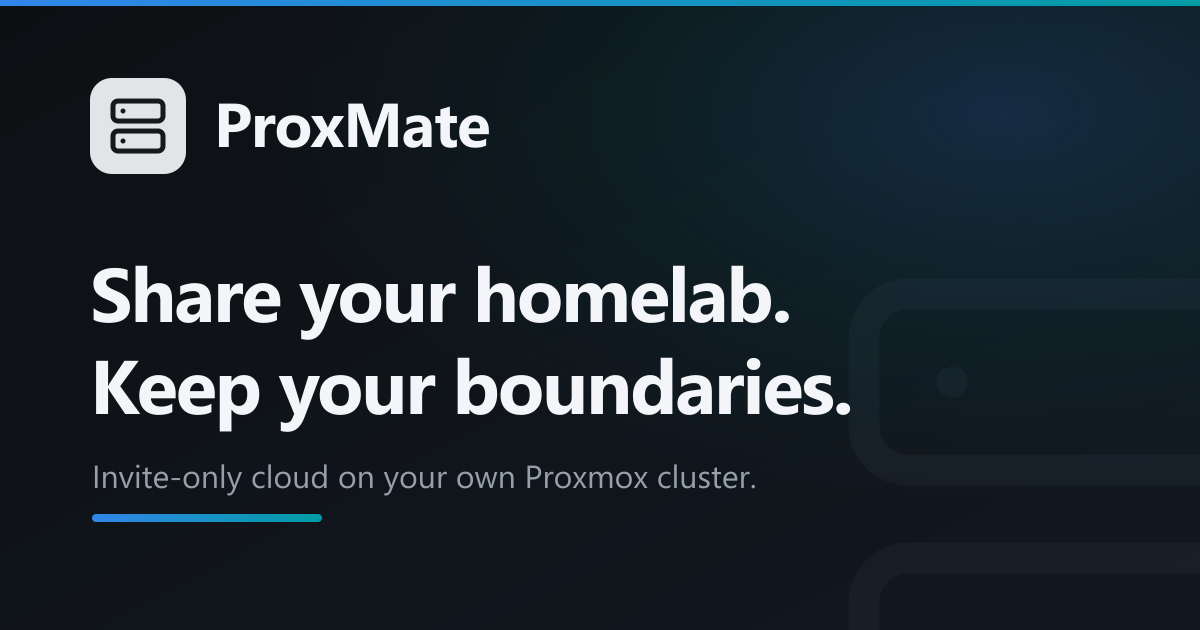
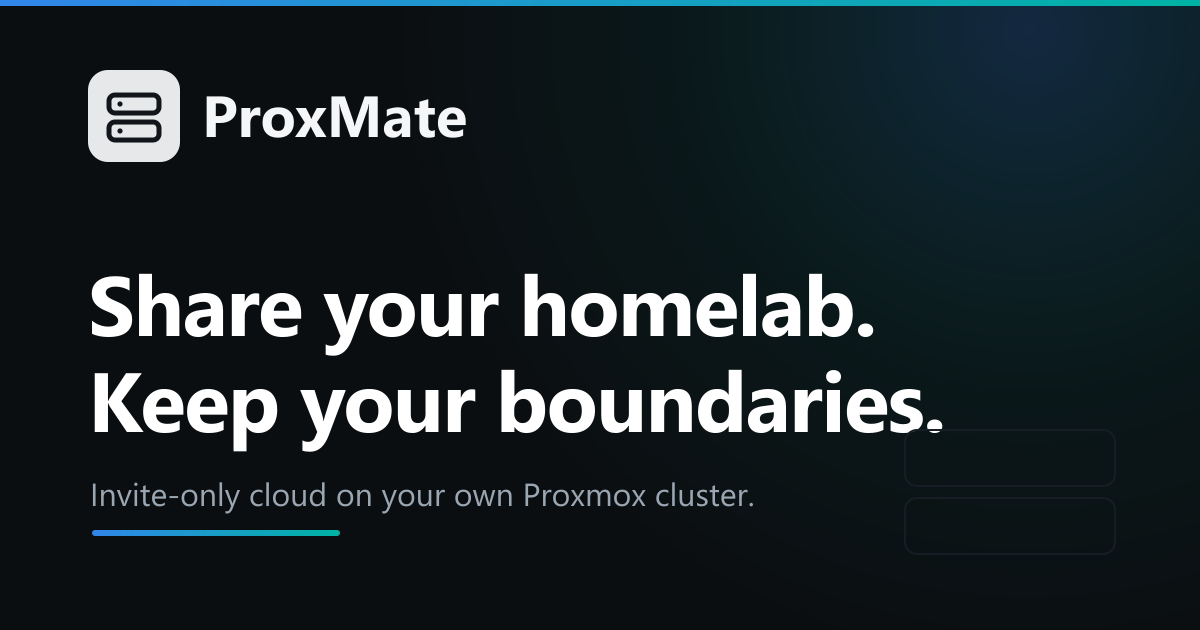
fix(seo): request-aware OG origin + refreshed share thumbnail
Shared links unfurled with a title/description but no image. Root cause:
metadataBase was baked from a build-time origin, and the Docker images
default NEXT_PUBLIC_SITE_URL to http://localhost:3000 — so an instance
built without that var emits og:image=http://localhost:3000/opengraph-image.png,
which the unfurl bot can't fetch.

- Derive metadataBase from the actual request (x-forwarded-host / host +
  x-forwarded-proto) via generateMetadata(), so link previews resolve on any
  self-hosted instance behind a tunnel/proxy with zero config. An explicit
  NEXT_PUBLIC_SITE_URL still wins; a localhost value is treated as unset so the
  dev default can't poison prod unfurls.
- Refresh opengraph-image.png / twitter-image.png with the "Refined Dark"
  card (logo, headline, accent underline).

Verified with a production build + next start: proxied Host ->
https://proxmate.myhomelab.pro/opengraph-image.png (200, image/png);
x-forwarded-host -> that host; direct -> localhost.

Changed region(s): [[0.0617, 0.4222, 0.8017, 0.8746], [0.0617, 0.0905, 0.4317, 0.3016]]

diff --git a/frontend/src/app/layout.tsx b/frontend/src/app/layout.tsx
@@ -4,7 +4,7 @@ import { Geist, Geist_Mono } from "next/font/google";
 import "./globals.css";
 import { Toaster } from "@/components/ui/sonner";
 import { ThemeProvider } from "@/components/theme-provider";
-import { siteUrl, siteConfig } from "@/lib/site";
+import { siteConfig, resolveSiteOrigin } from "@/lib/site";
 
 const geistSans = Geist({
   variable: "--font-sans",
@@ -18,50 +18,56 @@ const geistMono = Geist_Mono({
 
 const ogTitle = "ProxMate — Invite-only cloud for your Proxmox cluster";
 
-export const metadata: Metadata = {
-  metadataBase: new URL(siteUrl),
-  applicationName: siteConfig.name,
-  title: {
-    default: ogTitle,
-    template: "%s · ProxMate",
-  },
-  description: siteConfig.description,
-  authors: [{ name: siteConfig.name }],
-  creator: siteConfig.name,
-  publisher: siteConfig.name,
-  alternates: { canonical: "/" },
-  // Private control plane — keep it out of search (the meta half; robots.ts is
-  // the crawler half). Shareability is unaffected: preview bots ignore robots.
-  robots: {
-    index: false,
-    follow: false,
-    nocache: true,
-    googleBot: { index: false, follow: false, noimageindex: true },
-  },
-  // og/twitter IMAGES come from the opengraph-image.png / twitter-image.png
-  // file conventions (with their .alt.txt) — Next merges them in, so we only
-  // set the text fields here to avoid duplicate <meta> tags.
-  openGraph: {
-    type: "website",
-    siteName: siteConfig.name,
-    title: ogTitle,
-    description: siteConfig.shortDescription,
-    url: "/",
-    locale: "en_US",
-  },
-  twitter: {
-    card: "summary_large_image",
-    title: ogTitle,
-    description: siteConfig.shortDescription,
-  },
-  appleWebApp: {
-    capable: true,
-    title: siteConfig.name,
-    statusBarStyle: "black-translucent",
-  },
-  // Stop iOS Safari auto-linkifying numeric strings (VM IDs, IPs) as phone numbers.
-  formatDetection: { telephone: false, email: false, address: false },
-};
+// Request-aware so the OG image URL resolves to whatever origin the instance is
+// actually served on (tunnel host, LAN IP, localhost) — a static build-time
+// origin baked the wrong host and broke link-preview images. `metadataBase`
+// makes the file-convention opengraph-image.png / twitter-image.png absolute.
+export async function generateMetadata(): Promise<Metadata> {
+  return {
+    metadataBase: new URL(await resolveSiteOrigin()),
+    applicationName: siteConfig.name,
+    title: {
+      default: ogTitle,
+      template: "%s · ProxMate",
+    },
+    description: siteConfig.description,
+    authors: [{ name: siteConfig.name }],
+    creator: siteConfig.name,
+    publisher: siteConfig.name,
+    alternates: { canonical: "/" },
+    // Private control plane — keep it out of search (the meta half; robots.ts is
+    // the crawler half). Shareability is unaffected: preview bots ignore robots.
+    robots: {
+      index: false,
+      follow: false,
+      nocache: true,
+      googleBot: { index: false, follow: false, noimageindex: true },
+    },
+    // og/twitter IMAGES come from the opengraph-image.png / twitter-image.png
+    // file conventions (with their .alt.txt) — Next merges them in, so we only
+    // set the text fields here to avoid duplicate <meta> tags.
+    openGraph: {
+      type: "website",
+      siteName: siteConfig.name,
+      title: ogTitle,
+      description: siteConfig.shortDescription,
+      url: "/",
+      locale: "en_US",
+    },
+    twitter: {
+      card: "summary_large_image",
+      title: ogTitle,
+      description: siteConfig.shortDescription,
+    },
+    appleWebApp: {
+      capable: true,
+      title: siteConfig.name,
+      statusBarStyle: "black-translucent",
+    },
+    // Stop iOS Safari auto-linkifying numeric strings (VM IDs, IPs) as phone numbers.
+    formatDetection: { telephone: false, email: false, address: false },
+  };
+}
 
 export const viewport: Viewport = {
   themeColor: [

diff --git a/frontend/src/lib/site.ts b/frontend/src/lib/site.ts
@@ -1,14 +1,55 @@
 // Absolute origin + shared copy for SEO metadata (OG/canonical/manifest).
 //
-// `siteUrl` must be the EXTERNALLY reachable origin (the Cloudflare Tunnel
-// hostname), because link-preview bots fetch the OG image over the public
-// internet — an internal container address (http://app:3000) yields broken
-// unfurls. Override per-deployment with NEXT_PUBLIC_SITE_URL (the NEXT_PUBLIC_
-// prefix makes it available at render time; it's only a public origin, so no
-// secret is exposed). The trailing slash is stripped to avoid `//og` artifacts.
-export const siteUrl =
-  process.env.NEXT_PUBLIC_SITE_URL?.replace(/\/+$/, "") ||
-  "https://proxmate.myhomelab.pro";
+// The origin must be the EXTERNALLY reachable one, because link-preview bots
+// fetch the OG image over the public internet — an internal/localhost address
+// yields a broken unfurl (the image URL can't be reached). We resolve it, in
+// order: an explicit operator override, then the actual request origin, then a
+// last-ditch default.
+
+const DEFAULT_ORIGIN = "https://proxmate.myhomelab.pro";
+
+/**
+ * An explicit, externally-reachable origin set by the operator via
+ * NEXT_PUBLIC_SITE_URL. The Docker images bake `NEXT_PUBLIC_SITE_URL=
+ * http://localhost:3000` as a dev default, so a localhost value is treated as
+ * "unset" — otherwise every unfurl bot would be handed a localhost og:image URL
+ * it can't fetch (this was the "no image on shared links" bug). Trailing slash
+ * stripped to avoid `//og` artifacts.
+ */
+function explicitSiteUrl(): string | null {
+  const raw = process.env.NEXT_PUBLIC_SITE_URL?.replace(/\/+$/, "");
+  if (!raw) return null;
+  if (/^https?:\/\/(localhost|127\.0\.0\.1|\[::1\])(:\d+)?$/i.test(raw)) return null;
+  return raw;
+}
+
+/** Build-time best guess (explicit override, else default). Kept for any
+ *  non-request context; request-aware code should prefer `resolveSiteOrigin`. */
+export const siteUrl = explicitSiteUrl() ?? DEFAULT_ORIGIN;
+
+/**
+ * Resolve the absolute origin for OG/canonical URLs. Prefers an explicit
+ * NEXT_PUBLIC_SITE_URL, then the **actual request origin** (so link previews
+ * work on any self-hosted instance with zero config, behind a tunnel/proxy),
+ * then the default. Server-only (reads request headers) — call from
+ * `generateMetadata`.
+ */
+export async function resolveSiteOrigin(): Promise<string> {
+  const explicit = explicitSiteUrl();
+  if (explicit) return explicit;
+  try {
+    const { headers } = await import("next/headers");
+    const h = await headers();
+    const host = h.get("x-forwarded-host") ?? h.get("host");
+    if (host) {
+      const proto = (h.get("x-forwarded-proto") ?? "https").split(",")[0]!.trim();
+      return `${proto}://${host}`;
+    }
+  } catch {
+    // headers() unavailable (static/build context) — fall through to default.
+  }
+  return DEFAULT_ORIGIN;
+}
 
 export const siteConfig = {
   name: "ProxMate",